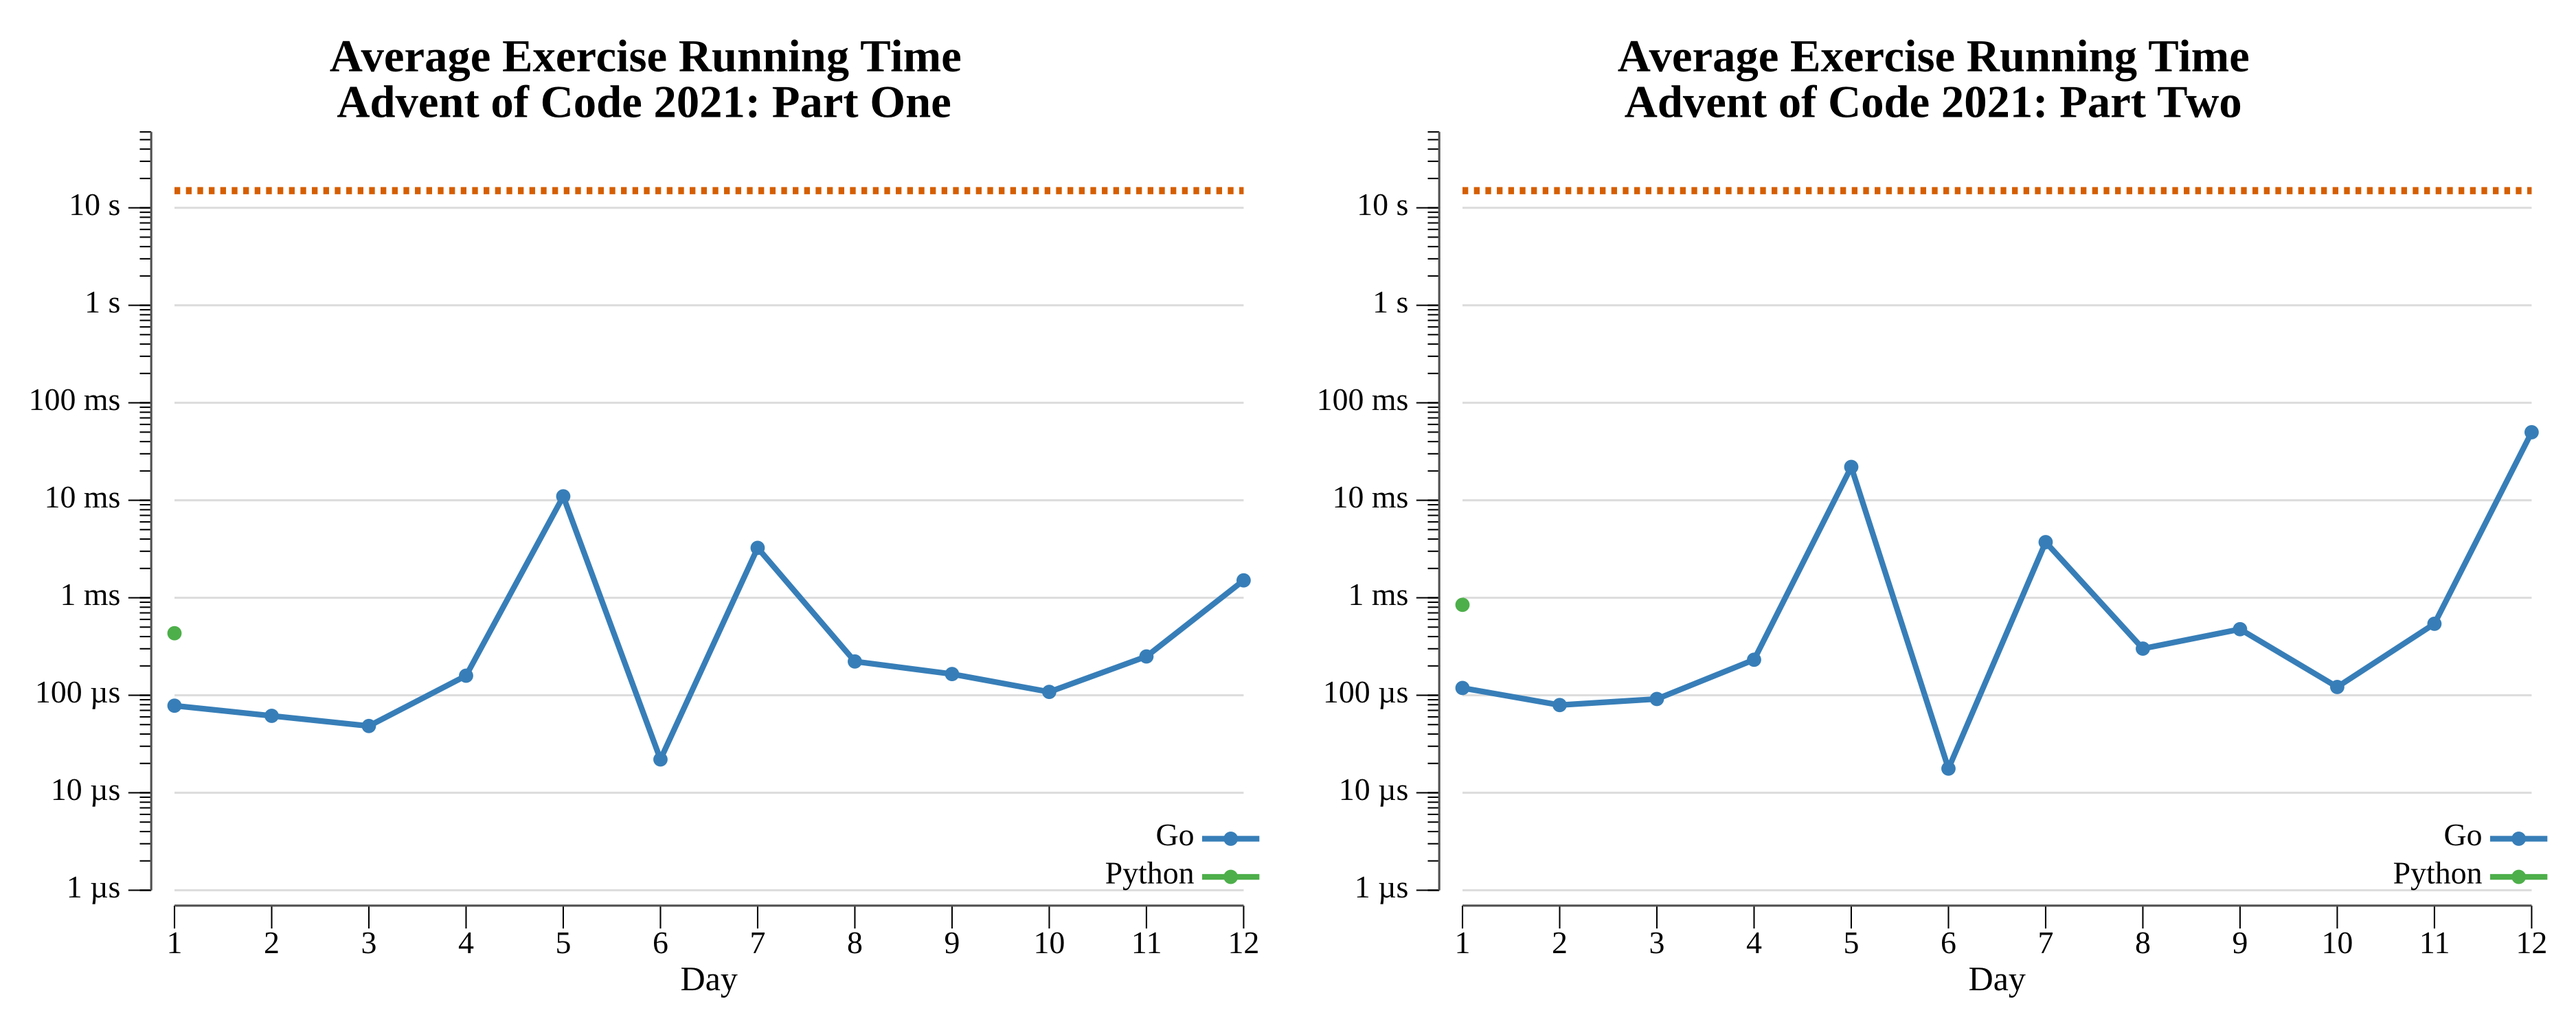
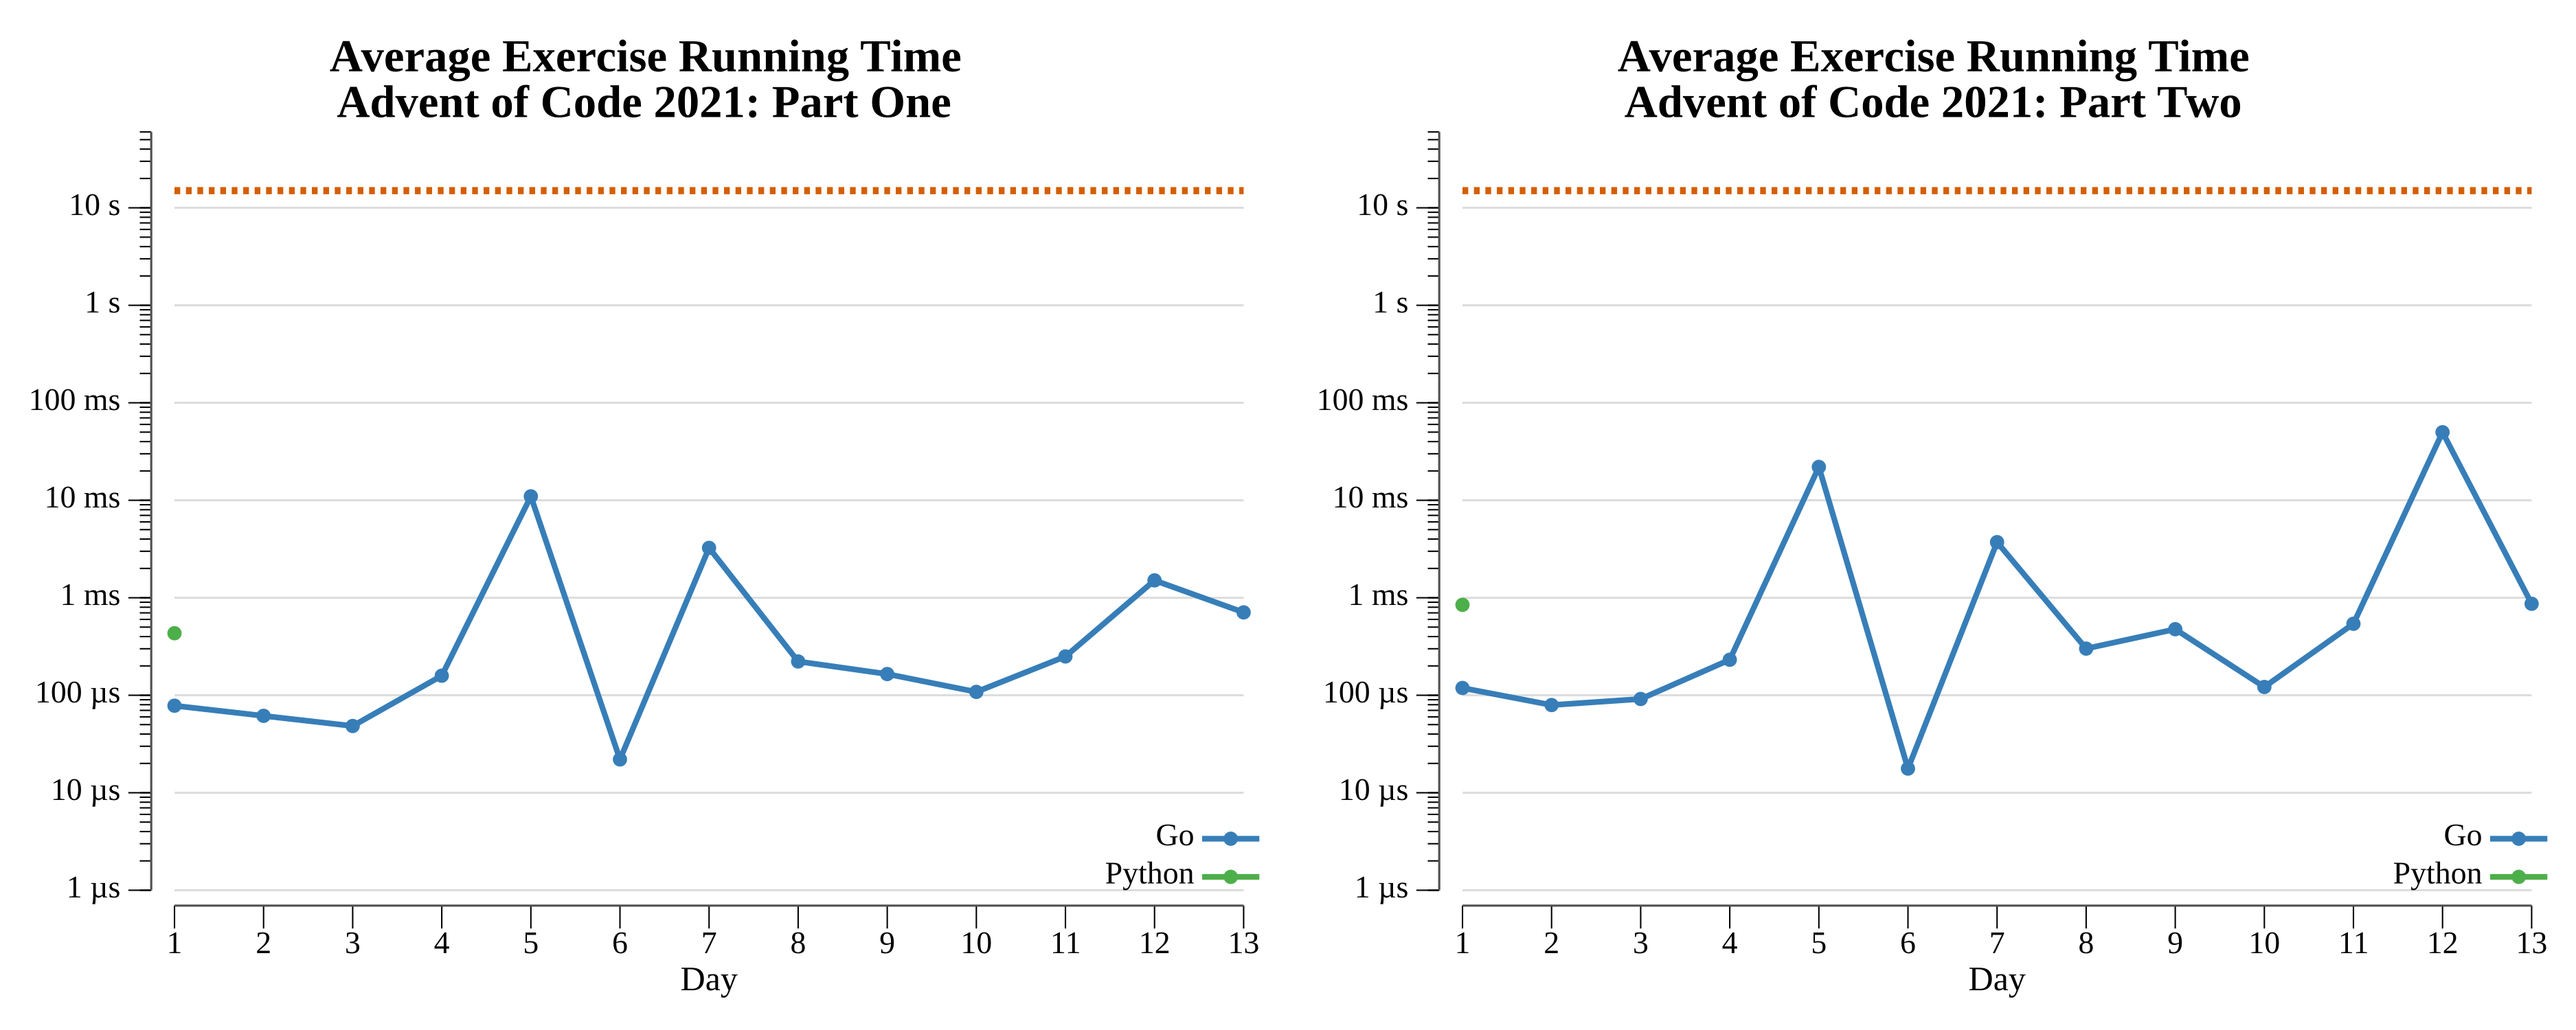
2021 day 13

diff --git a/exercises/2021/13-transparentOrigami/go/exercise.go b/exercises/2021/13-transparentOrigami/go/exercise.go
@@ -1,0 +1,124 @@
+package exercises
+
+import (
+	"fmt"
+	"strings"
+
+	"github.com/asphaltbuffet/advent-of-code/internal/common"
+)
+
+// Exercise for Advent of Code 2021 day 13.
+type Exercise struct {
+	common.BaseExercise
+}
+
+type point struct{ x, y int }
+
+type fold struct {
+	axis byte // 'x' or 'y'
+	at   int
+}
+
+func parse(instr string) (map[point]bool, []fold, error) {
+	dotsPart, foldsPart, ok := strings.Cut(strings.TrimRight(instr, "\n"), "\n\n")
+	if !ok {
+		return nil, nil, fmt.Errorf("input missing blank-line separator")
+	}
+
+	dots := map[point]bool{}
+	for _, line := range strings.Split(strings.TrimSpace(dotsPart), "\n") {
+		var p point
+		if _, err := fmt.Sscanf(strings.TrimSpace(line), "%d,%d", &p.x, &p.y); err != nil {
+			return nil, nil, fmt.Errorf("parsing dot %q: %w", line, err)
+		}
+		dots[p] = true
+	}
+
+	var folds []fold
+	for _, line := range strings.Split(strings.TrimSpace(foldsPart), "\n") {
+		var f fold
+		if _, err := fmt.Sscanf(strings.TrimSpace(line), "fold along %c=%d", &f.axis, &f.at); err != nil {
+			return nil, nil, fmt.Errorf("parsing fold %q: %w", line, err)
+		}
+		folds = append(folds, f)
+	}
+
+	return dots, folds, nil
+}
+
+// apply reflects every dot across the fold line, returning the new dot set.
+func apply(dots map[point]bool, f fold) map[point]bool {
+	out := make(map[point]bool, len(dots))
+	for p := range dots {
+		switch f.axis {
+		case 'x':
+			if p.x > f.at {
+				p.x = 2*f.at - p.x
+			}
+		case 'y':
+			if p.y > f.at {
+				p.y = 2*f.at - p.y
+			}
+		}
+		out[p] = true
+	}
+	return out
+}
+
+// One returns the answer to the first part of the exercise.
+func (e Exercise) One(instr string) (any, error) {
+	dots, folds, err := parse(instr)
+	if err != nil {
+		return nil, fmt.Errorf("parsing input: %w", err)
+	}
+	if len(folds) == 0 {
+		return nil, fmt.Errorf("no folds in input")
+	}
+
+	dots = apply(dots, folds[0])
+
+	return fmt.Sprintf("%d", len(dots)), nil
+}
+
+// render draws the dot set as ASCII art (█ lit, ░ dark) with no trailing newline.
+func render(dots map[point]bool) string {
+	maxX, maxY := 0, 0
+	for p := range dots {
+		if p.x > maxX {
+			maxX = p.x
+		}
+		if p.y > maxY {
+			maxY = p.y
+		}
+	}
+
+	var sb strings.Builder
+	for y := 0; y <= maxY; y++ {
+		for x := 0; x <= maxX; x++ {
+			if dots[point{x, y}] {
+				sb.WriteString("█")
+			} else {
+				sb.WriteString("░")
+			}
+		}
+		if y != maxY {
+			sb.WriteString("\n")
+		}
+	}
+
+	return sb.String()
+}
+
+// Two returns the answer to the second part of the exercise.
+func (e Exercise) Two(instr string) (any, error) {
+	dots, folds, err := parse(instr)
+	if err != nil {
+		return nil, fmt.Errorf("parsing input: %w", err)
+	}
+
+	for _, f := range folds {
+		dots = apply(dots, f)
+	}
+
+	return render(dots), nil
+}

diff --git a/exercises/2021/13-transparentOrigami/go/vis.go b/exercises/2021/13-transparentOrigami/go/vis.go
@@ -1,0 +1,113 @@
+package exercises
+
+import (
+	"image"
+	"image/color"
+	"image/gif"
+	"os"
+	"path/filepath"
+)
+
+// Vis animates the folding (GIF). The first frame is the full sheet of dots;
+// each subsequent frame applies one more fold, so the paper visibly halves again
+// and again until the dots line up into the eight-letter message (part two). Dots
+// are drawn bright on a dark sheet; every frame is scaled to a fixed canvas so
+// the collapse is easy to follow. Brightness alone encodes dot vs empty, so it
+// reads in grayscale.
+func (e Exercise) Vis(instr, outdir string) error {
+	dots, folds, err := parse(instr)
+	if err != nil {
+		return err
+	}
+
+	// Snapshot the dot set before and after each fold.
+	frames := []map[point]bool{cloneDots(dots)}
+	cur := dots
+	for _, f := range folds {
+		cur = apply(cur, f)
+		frames = append(frames, cloneDots(cur))
+	}
+
+	// Fixed output canvas; each frame's bounds are scaled to fit inside it.
+	const canvas = 620
+	const border = 10
+
+	pal := color.Palette{
+		color.RGBA{0x0d, 0x0f, 0x18, 0xff}, // 0 background
+		color.RGBA{0x1a, 0x20, 0x2c, 0xff}, // 1 sheet area
+		color.RGBA{0x56, 0xB4, 0xE9, 0xff}, // 2 dot
+		color.RGBA{0xF0, 0xE4, 0x42, 0xff}, // 3 final dots (message)
+	}
+
+	anim := &gif.GIF{}
+	for fi, fr := range frames {
+		maxX, maxY := 0, 0
+		for p := range fr {
+			if p.x > maxX {
+				maxX = p.x
+			}
+			if p.y > maxY {
+				maxY = p.y
+			}
+		}
+		w := maxX + 1
+		h := maxY + 1
+
+		// Scale so the sheet fits the canvas while keeping square pixels.
+		inner := canvas - 2*border
+		scale := inner / max(w, 1)
+		if s := inner / max(h, 1); s < scale {
+			scale = s
+		}
+		if scale < 1 {
+			scale = 1
+		}
+
+		img := image.NewPaletted(image.Rect(0, 0, canvas, canvas), pal)
+		// Sheet backdrop.
+		offX := (canvas - w*scale) / 2
+		offY := (canvas - h*scale) / 2
+		for y := 0; y < h*scale; y++ {
+			for x := 0; x < w*scale; x++ {
+				img.SetColorIndex(offX+x, offY+y, 1)
+			}
+		}
+
+		dotIdx := uint8(2)
+		if fi == len(frames)-1 {
+			dotIdx = 3 // highlight the final message
+		}
+		for p := range fr {
+			for dy := 0; dy < scale; dy++ {
+				for dx := 0; dx < scale; dx++ {
+					img.SetColorIndex(offX+p.x*scale+dx, offY+p.y*scale+dy, dotIdx)
+				}
+			}
+		}
+
+		anim.Image = append(anim.Image, img)
+		delay := 90
+		if fi == 0 {
+			delay = 150
+		}
+		if fi == len(frames)-1 {
+			delay = 400
+		}
+		anim.Delay = append(anim.Delay, delay)
+	}
+
+	f, err := os.Create(filepath.Join(outdir, "transparent-origami.gif"))
+	if err != nil {
+		return err
+	}
+	defer f.Close()
+	return gif.EncodeAll(f, anim)
+}
+
+func cloneDots(d map[point]bool) map[point]bool {
+	out := make(map[point]bool, len(d))
+	for p := range d {
+		out[p] = true
+	}
+	return out
+}

diff --git a/exercises/2021/13-transparentOrigami/README.md b/exercises/2021/13-transparentOrigami/README.md
@@ -1,0 +1,45 @@
+# [Day 13: Transparent Origami](https://adventofcode.com/2021/day/13)
+
+<!-- These are helper text to make formatting the yearly readme consistent and easier...
+
+[Day 13: Transparent Origami][rm13]
+[Go][go13]
+
+[rm13]: 13-transparentOrigami/README.md
+[go13]: 13-transparentOrigami/go
+
+-->
+
+## Notes
+
+A fold is a coordinate reflection: folding along `y=f` maps any dot with `y > f`
+to `2f - y` (and likewise for `x=f`). Applying a fold is one pass over the dot
+set, deduplicating via a map. Part One reports the dot count after the first
+fold; Part Two applies all folds and renders the remaining dots as ASCII art —
+they spell eight capital letters, which is the answer.
+
+## Go
+
+```text
+────────────────────────────────────────
+─   2021 Day 13: Transparent Origami   ─
+────────────────────────────────────────
+
+Solving (Go)…
+1.0:  PASS           670.579µs
+2.0:  PASS           861.998µs
+```
+
+## Visualization
+
+The folding animated (GIF). The first frame is the full sheet of scattered dots;
+each subsequent frame applies one more fold, so the paper visibly halves again
+and again until the dots line up into the eight-letter message (highlighted
+yellow on the final frame). Dots, sheet, and background are distinguished by
+brightness, so it reads in grayscale.
+
+![Transparent Origami folding](transparent-origami.gif)
+
+## Run Times
+
+![Day 13 run-time graphs](run-times.png)

diff --git a/exercises/2021/README.md b/exercises/2021/README.md
@@ -18,7 +18,7 @@
 | [Day 10: Syntax Scoring](10-syntaxScoring/README.md) |  ★ ★  | [Go](10-syntaxScoring/go)                          |
 | [Day 11: Dumbo Octopus](11-dumboOctopus/README.md) |  ★ ★  | [Go](11-dumboOctopus/go)                           |
 | [Day 12: Passage Pathing](12-passagePathing/README.md) |  ★ ★  | [Go](12-passagePathing/go)                         |
-| 13                                            |  ☆ ☆  |                                                    |
+| [Day 13: Transparent Origami](13-transparentOrigami/README.md) |  ★ ★  | [Go](13-transparentOrigami/go)                     |
 | 14                                            |  ☆ ☆  |                                                    |
 | 15                                            |  ☆ ☆  |                                                    |
 | 16                                            |  ☆ ☆  |                                                    |
